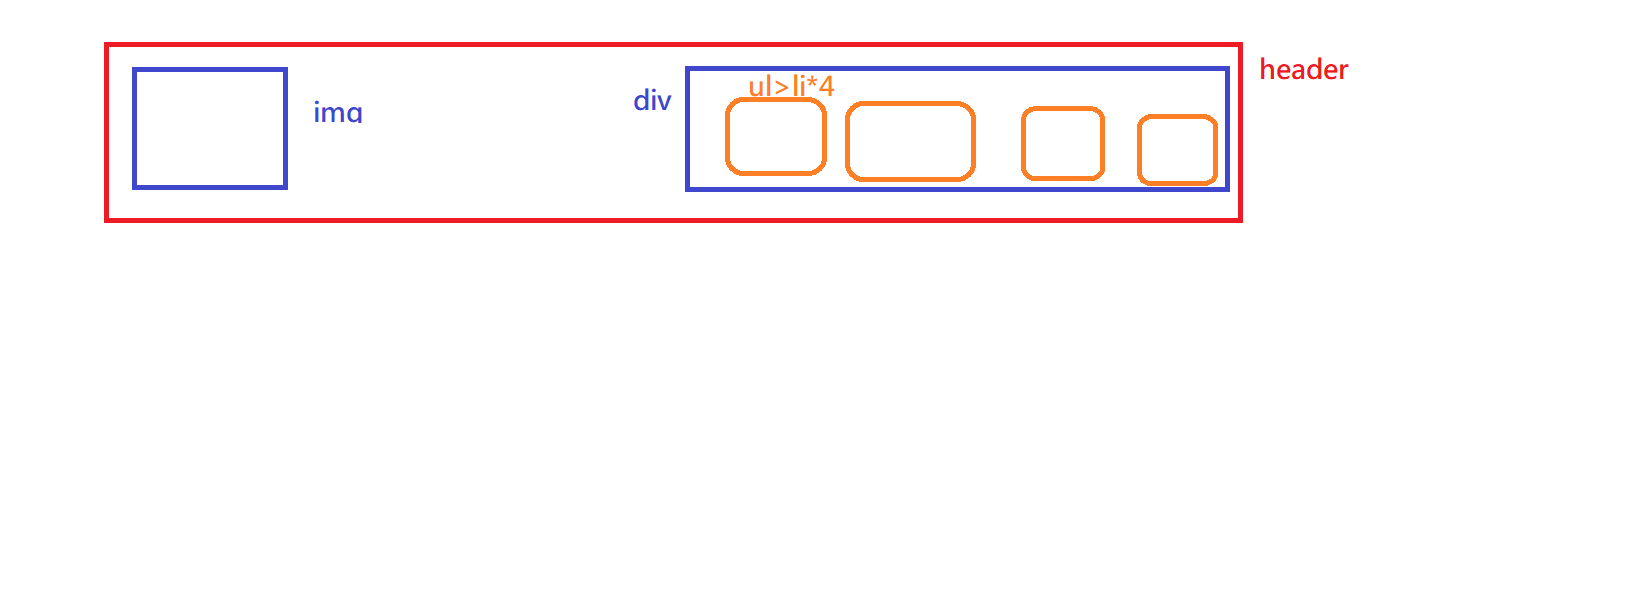
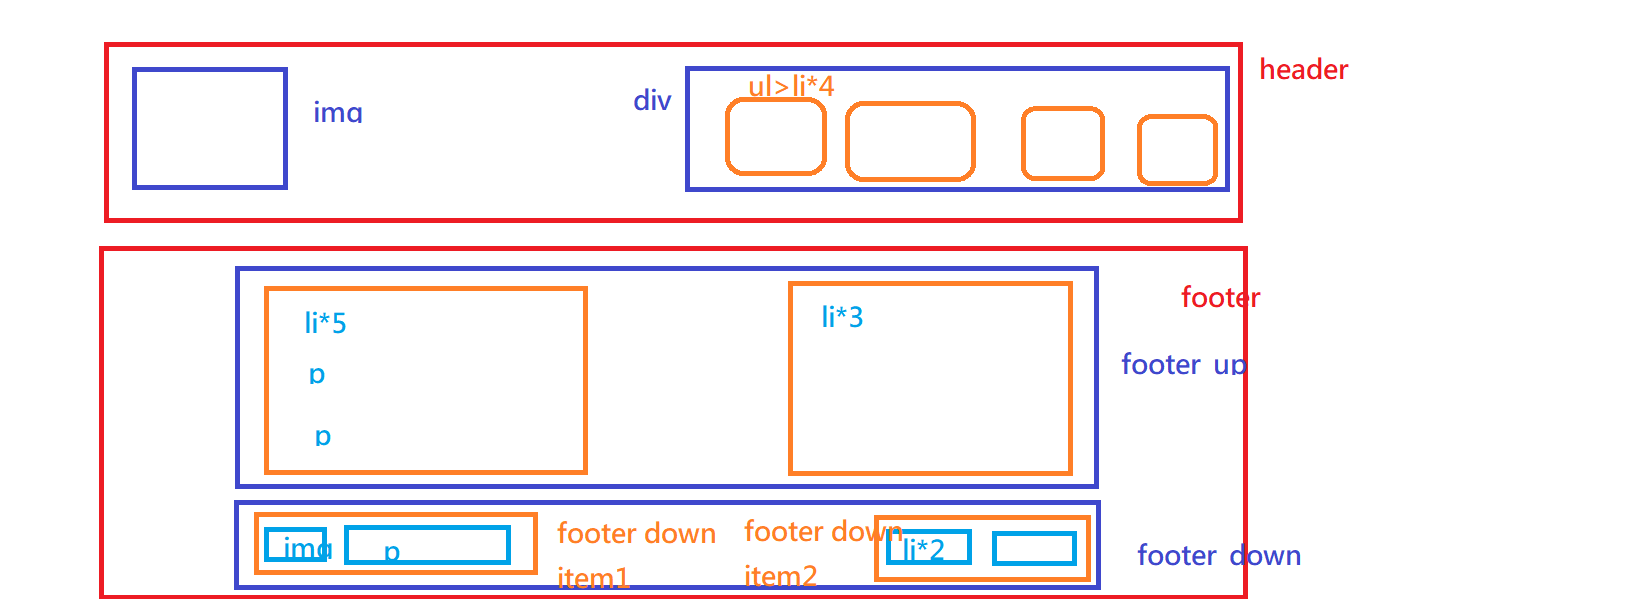
第三周作業RWD的Header及Footer

diff --git a/7.week3/css/style.css b/7.week3/css/style.css
@@ -83,58 +83,253 @@ table {
   font-size: 20px;
 }
 
+.content{
+  border: 1px solid white;
+}
+
+.footer{
+  background-color: #AA0601;
+  color: #FFFFFF;
+  font-family: Noto_Sans;
+}
+
+.footer_up{
+  width: 1110px;
+  margin: 0 auto;
+  display: flex;
+  justify-content: space-between;
+  padding-top: 36px;
+}
+
+.footer_up_item1 ul{
+  margin-bottom: 32px;
+  display: flex;
+  justify-content: space-between;
+  width: 464px;
+}
+
+.footer_up_item1 p{
+  margin-bottom: 17px;
+  font-size: 36px;
+  display: flex;
+  align-items: center;
+}
+
+.footer_up_item1 p img{
+  width: 40px;
+  height: 40px;
+  padding-right: 20px;
+}
+
+.footer_up_item2 ul{
+  display: flex;
+  justify-content: space-between;
+  width: 208px;
+}
+
+.footer_down{
+  border-top: 1px solid white;
+  display: flex;
+  width: 1110px;
+  margin: 0 auto;
+  padding-top: 28px;
+  padding-bottom: 28.43px;
+}
+
+.footer_down p{
+  width: 10%;
+}
+
+.footer_down p img{
+  width: 80px;
+  height: 48.75px;
+}
+.footer_down_item1{
+  display: flex;
+  justify-content: space-between;
+  align-items: center;
+  width: 90%;
+}
+
+.footer_down_item1 p{
+   width: 50%;
+}
+
+.footer_down_item1 ul{
+  display: flex;
+  justify-content: flex-end;
+  width: 50%;
+}
+.footer_down_item1 ul li{
+  margin-left: 62px;
+  font-size: 14px;
+}
+
+
 @media(max-width:992px){
-.header img{
-  margin-left: 39px;
-}
-
-.menu{
-    margin-right: 39px;
- }  
-
- .menu ul{
-  width: 430px;
-}
-
-}
-
-@media(max-width:767px){
-  .header{
-    display: flex;
-    flex-direction: column;
-    align-items: center;
-    height: auto;
-  }
-
   .header img{
-    margin: 10px auto 10.86px;
+    margin-left: 39px;
   }
   
   .menu{
-    width:100%;
-    margin: 0 auto;
+      margin-right: 39px;
+   }  
+  
+   .menu ul{
+    width: 430px;
   }
 
-  .menu ul{
-    display: flex;
-    margin: 0 auto;
-    flex-direction: row;
-    justify-content: flex-start;
-    width: 100%;
-    flex-wrap:wrap;
-  }
-
-  .menu ul li p{
-    padding: 8px 0px 8px 0px ;
-    border: 1px solid white;
-    width: 100%;
-  }
-
-  .menu ul li{
-    width: 50%;
-    text-align: center;
-    display: flex;
-    justify-content: center;
-    align-items: center;
-  }
+.footer{
+  padding-left: 48px;
+  padding-right: 39px;
 }
+
+.footer_up{
+  width: 100%;
+}
+
+  .footer_up_item1 p{
+    font-size: 20px;
+  }
+  
+  .footer_up_item1 p img{
+    width: 24px;
+    height: 24px;
+  }
+  
+  
+.footer_up_item2 ul li img{
+  width: 24px;
+  height: 24px;
+}
+
+.footer_down{
+  width: 100%;
+}
+
+.footer_down > p{
+  display: none;
+}
+
+
+.footer_down_item1{
+  width: 100%;
+}
+
+}
+  
+  @media(max-width:767px){
+    .header{
+      display: flex;
+      flex-direction: column;
+      align-items: center;
+      height: auto;
+    }
+  
+    .header img{
+      margin: 10px auto 10.86px;
+    }
+    
+    .menu{
+      width:100%;
+      margin: 0 auto;
+    }
+  
+    .menu ul{
+      display: flex;
+      margin: 0 auto;
+      flex-direction: row;
+      justify-content: flex-start;
+      width: 100%;
+      flex-wrap:wrap;
+    }
+  
+    .menu ul li p{
+      padding: 8px 0px 8px 0px ;
+      border: 1px solid white;
+      width: 100%;
+    }
+  
+    .menu ul li{
+      width: 50%;
+      text-align: center;
+      display: flex;
+      justify-content: center;
+      align-items: center;
+    }
+    
+  .footer{
+    padding-left: 15px;
+    padding-right: 15px;
+  }
+
+  .footer_up{
+    width: 100%;
+    padding-top: 23px;
+    margin-bottom: 7px;
+  }
+
+  .footer_up_item1 p{
+    font-size: 16px;
+    margin-bottom: 7px;
+  }
+  
+  .footer_up_item1 p img{
+    width: 24px;
+    height: 24px;
+  }
+
+  .footer_up_item1 ul{
+    display: none;
+  }
+  
+  .footer_up_item1 p{
+    font-size: 16px;
+  }
+  .footer_up_item2 ul{
+    width: 120px;
+  }
+
+  .footer_down{
+    width: 100%;
+    padding-top: 25px;
+    padding-bottom: 25px;
+    display: flex;
+    flex-direction: row-reverse;
+  }
+
+  .footer_down > p{
+    display: block;
+    width: 20%;
+    display: flex;
+    justify-content: flex-end;
+    align-items: flex-end;
+  }
+  
+  .footer_down p img{
+    width: 46px;
+    height: 27.93px;
+  }
+
+  .footer_down_item1{
+    display: flex;
+    flex-direction: column;
+    width: 80%;
+  }
+  .footer_down_item1 p{
+    width: 100%;
+    font-size: 14px;
+    margin-bottom: 8px;
+  }
+  .footer_down_item1 ul{
+    width: 100%;
+    font-size: 14px;
+    display: flex;
+    flex-direction: column;
+  }
+
+  .footer_down_item1 ul li{
+    width: 100%;
+    margin: 0px auto 8px;
+  }
+  }

diff --git a/7.week3/index.html b/7.week3/index.html
@@ -3,7 +3,7 @@
 <head>
     <meta charset="UTF-8">
     <meta name="viewport" content="width=device-width, initial-scale=1.0">
-    <title>Document</title>
+    <title>week3 mission</title>
     <link rel="stylesheet" href="./css/style.css">
 </head>
 <body>
@@ -16,6 +16,39 @@
                 <li><p>部落格</p></li>
                 <li><p>常見問題</p></li>
             </ul>
+        </div>
+    </div>
+    <div class="content"></div>
+    <div class="footer">
+        <div class="footer_up">
+            <div class="footer_up_item1">
+                <ul>
+                    <li>首頁</li>
+                    <li>系列鏡框</li>
+                    <li>門市據點</li>
+                    <li>部落格</li>
+                    <li>常見問題</li>
+                </ul>
+                <p><img src="./images/local_phone-24px.svg" alt=""><span>0800-000-000</span></p>
+                <p><img src="./images/mail_outline-24px.svg" alt=""><span>glasses@business.com</span></p>
+            </div>
+            <div class="footer_up_item2">
+                <ul>
+                    <li><img src="./images/ic_social_fb.svg" alt=""></li>
+                    <li><img src="./images/ic_social_ig.svg" alt=""></li>
+                    <li><img src="./images/ic_social_line.svg" alt=""></li>
+                </ul>
+            </div>
+        </div>
+        <div class="footer_down">
+            <p><img src="./images/logo-new_工作區域 1.png" alt=""></p>            
+            <div class="footer_down_item1">
+                <p>Copyright © 2020 Glasses.All rights reserved.</p>
+                <ul>
+                    <li>隱私權政策</li>
+                    <li>服務條款</li>
+                </ul>
+            </div>
         </div>
     </div>
 </body>
